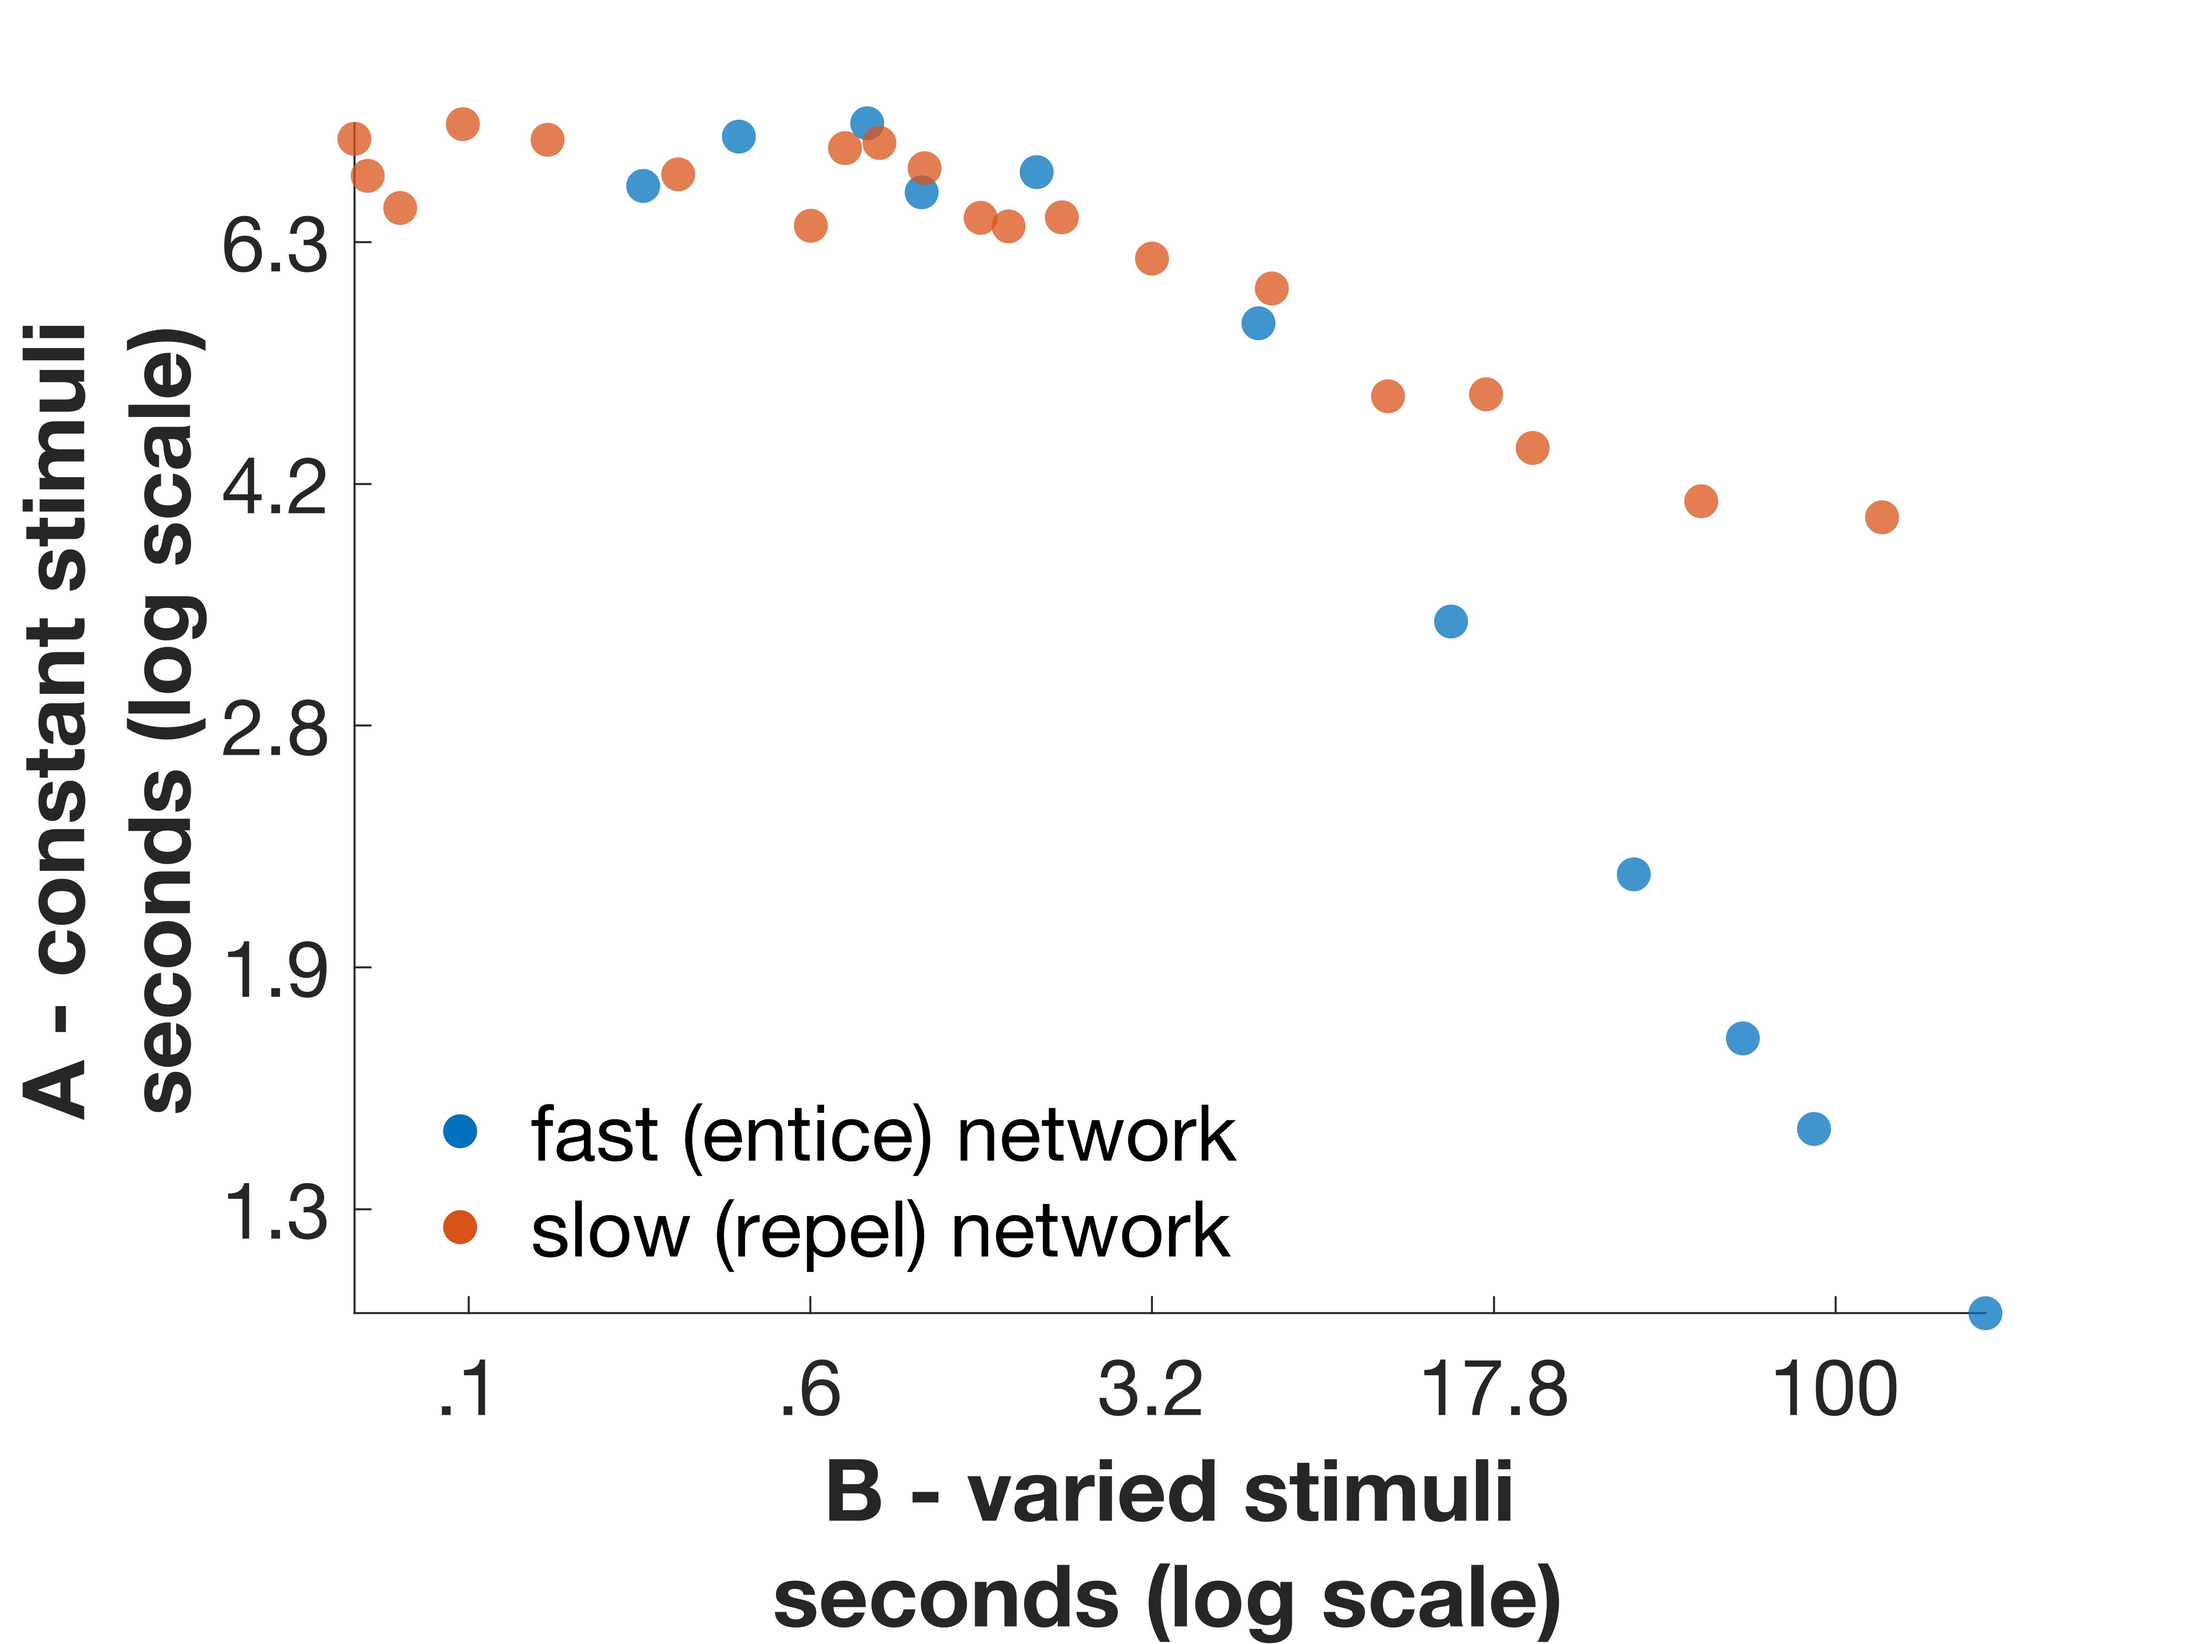
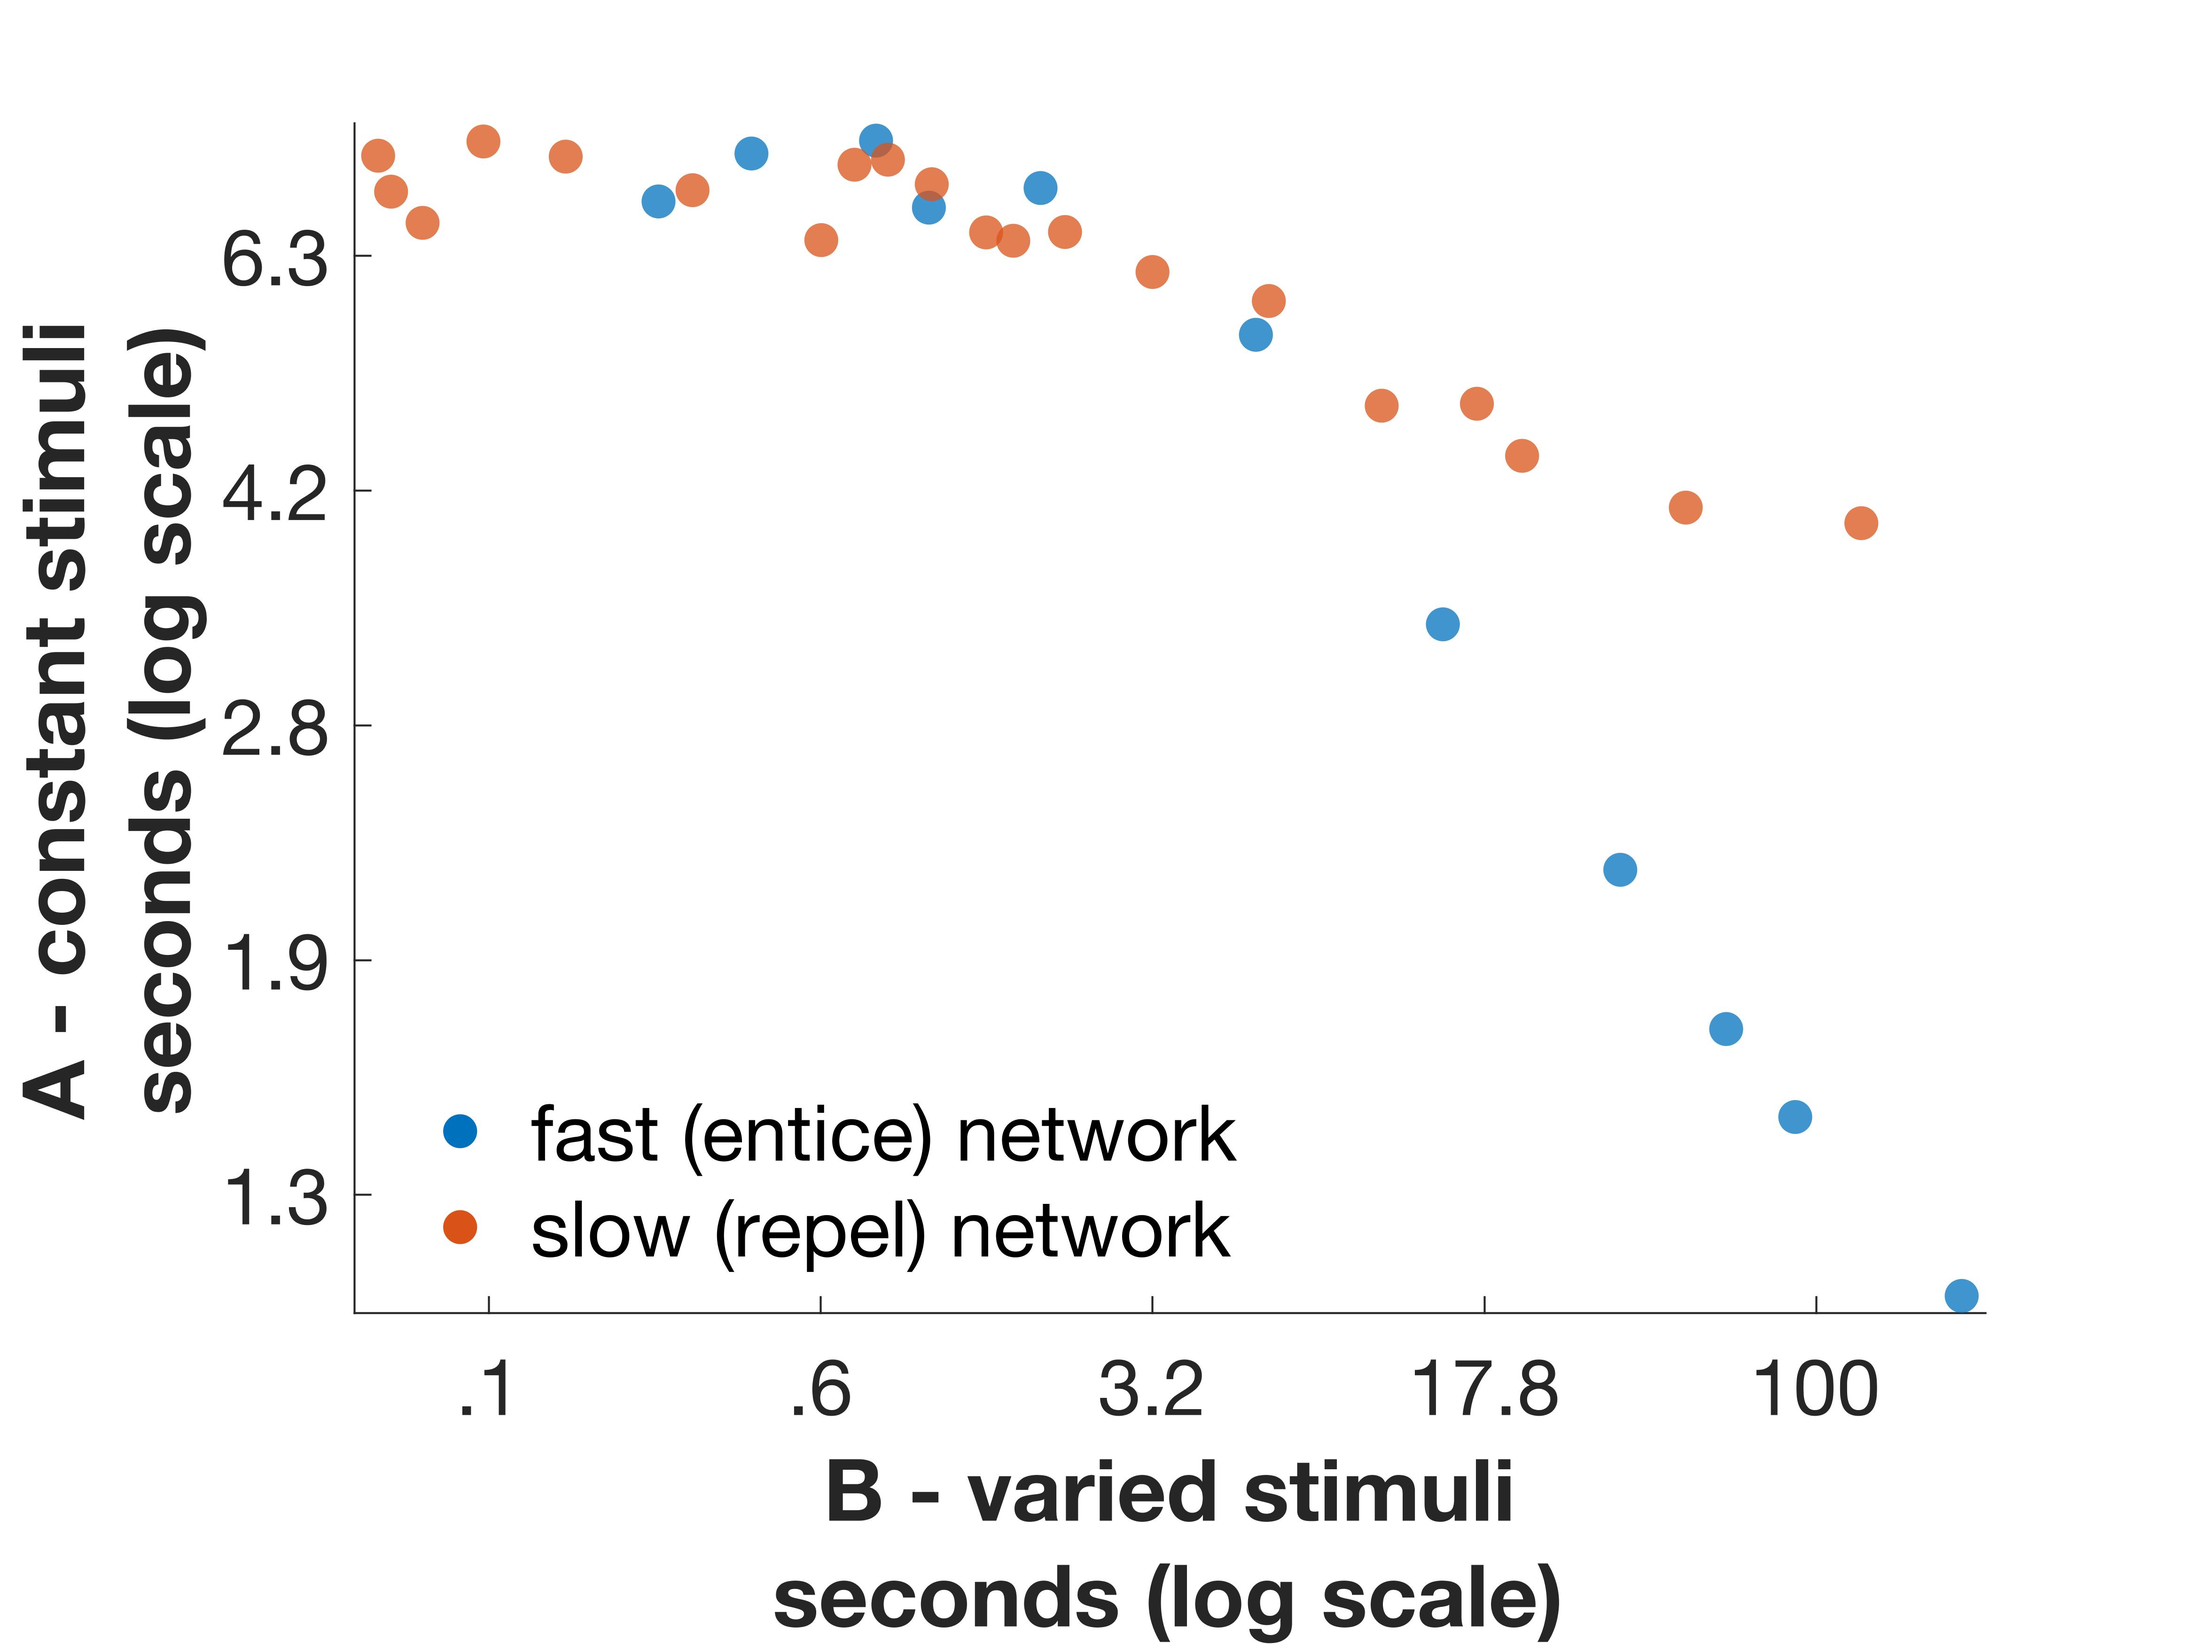
fig 8

diff --git a/inspect_results/multiple_networks/network_spiking_results.m b/inspect_results/multiple_networks/network_spiking_results.m
@@ -5,64 +5,54 @@ hold off;close all
 
 %note-- 8/29/2018: this is the code for analyzing simulation spikerates
 
-%to do:
-%trial-wise stuff
-%think about normalizing by t-stat or something, reduce by variance/error
-
 opt = struct();
 opt.multiple_stimuli = 'no'; %'yes'|'no';
 opt.params2match = {'conn','stim'}; %specify how results are matched to network types (at most {'conn','stim'})
 opt.print_anything = 'yes'; %'yes' | 'no';
-opt.Tcourse = 'all'; %'preswitch' | 'all' | 'presw250to5' | 'presw150to25'
+opt.Tcourse = 'presw200to25'; %'preswitch' | 'all' | 'presw250to5' | 'presw150to25'
 opt.treat_data = 'none'; %'base0'; % zscore | base0 | minmax | 'none'
-opt.zoomed_fig = 'no'; %'yes'|'no'; %ignore I-stay spiking for Y limits
+opt.zoomed_fig = 'yes'; %'yes'|'no'; %ignore I-stay spiking for Y limits
 opt.pulse_stim = 'off'; %'yes' | 'total_time' | 'rem' | 'off' whether to treat durations as samples (rem = time during sample)
 
 %specify simulation
 %---sim setup-----------------
 
-%Snames = {'nets_fastD','nets_fastD_baseline','nets_slowD','nets_slowD_baseline'};
-%figdir = {'figures_nets_fastD','figures_nets_fastD',...
-%    'figures_nets_slowD','figures_nets_slowD'};
-
-basedir = '~/Desktop/ksander/rotation/project/';
+basedir = '~/Desktop/work/ACClab/rotation/project/';
 addpath(fullfile(basedir,'helper_functions'))
-
-%Snames = dir(fullfile(basedir,'Results','nets_D2t_pref_spikedata_preference-*'));
-%Snames = {Snames.name};
-%Snames = Snames(~ismember(Snames,'nets_D2t_pref_spikedata_preference-200')); %no data
 
 Snames = {'nets_D2t-slower_spikedata'};
 figdir = cellfun(@(x) sprintf('figures_%s',x),Snames,'UniformOutput',false);
 
-
-%loop over these
-timewins = {'preswitch', 'all', 'presw200to5', 'presw200to25','presw400to100'};
-treatments = {'none','zscore', 'base0', 'minmax'};
-zooming = {'yes', 'no'};
+netspiking_figure(basedir,Snames{1},figdir{1},opt)
 
 
-for Sidx = 1:numel(Snames)
-    
-    %loop through & do everything for these results
-    for Tidx = 1:numel(timewins)
-        
-        opt.Tcourse = timewins{Tidx};
-        
-        for Didx = 1:numel(treatments)
-            
-            opt.treat_data = treatments{Didx};
-            
-            for Zidx  = 1:numel(zooming)
-                
-                opt.zoomed_fig = zooming{Zidx};
-                
-                %make the digures
-                netspiking_figure(basedir,Snames{Sidx},figdir{Sidx},opt)
-            end
-        end
-    end
-end
+% %loop over these
+% timewins = {'preswitch', 'all', 'presw200to5', 'presw200to25','presw400to100'};
+% treatments = {'none','zscore', 'base0', 'minmax'};
+% zooming = {'yes', 'no'};
+
+
+% for Sidx = 1:numel(Snames)
+%
+%     %loop through & do everything for these results
+%     for Tidx = 1:numel(timewins)
+%
+%         opt.Tcourse = timewins{Tidx};
+%
+%         for Didx = 1:numel(treatments)
+%
+%             opt.treat_data = treatments{Didx};
+%
+%             for Zidx  = 1:numel(zooming)
+%
+%                 opt.zoomed_fig = zooming{Zidx};
+%
+%                 %make the digures
+%                 netspiking_figure(basedir,Snames{Sidx},figdir{Sidx},opt)
+%             end
+%         end
+%     end
+% end
 
 
 
@@ -92,7 +82,7 @@ timestep = gen_options.timestep;
 recorded_switchtime = gen_options.record_preswitch; %actual switchtime in recorded switch
 %recorded_switchtime =  250e-3; %actual switchtime in recorded switch
 recorded_postswitch = gen_options.record_postswitch;
-thresh_delay = gen_options.state_test_time; %recorded switch time delayed by this much 
+thresh_delay = gen_options.state_test_time; %recorded switch time delayed by this much
 
 switch opt.pulse_stim
     case 'off'
@@ -125,7 +115,7 @@ switch opt.Tcourse
         postswitch_plottime = 100e-3 - thresh_delay; %postwitch duration to plot (T+X)
 end
 
-fig_fn = sprintf('%s_%s',sim_name,fig_fn);  
+fig_fn = sprintf('%s_%s',sim_name,fig_fn);
 
 switch opt.treat_data
     case 'zscore'
@@ -139,10 +129,10 @@ switch opt.treat_data
     case 'minmax'
         fig_dir = fullfile(mainfig_dir,'minmax');
         fig_fn = sprintf('%s_%s',fig_fn,'minmax');
-        Yax_labs = 'spiking (0-1)';
+        Yax_labs = 'pool spiking (0-1)';
     case 'none'
         fig_dir = fullfile(mainfig_dir,'no_treatment');
-        Yax_labs = 'spiking (Hz)';
+        Yax_labs = 'pool spiking (Hz)';
 end
 
 switch opt.zoomed_fig
@@ -152,13 +142,6 @@ switch opt.zoomed_fig
 end
 
 if ~isdir(fig_dir),mkdir(fig_dir);end
-
-%result summaries
-fontsz = 30;
-lnsz = 3; %spikerate plots
-orange = [250 70 22]./255;
-matblue = [0,0.4470,0.7410];
-legend_labels = {'E-stay','E-switch','I-stay','I-switch'};
 
 %remake celltype logicals.. (if you use this code again, check this over!!!!!)
 pool_options.num_cells = 250;
@@ -301,12 +284,28 @@ switch opt.treat_data
         result_data = cellfun(@(x,y,z) bsxfun(@rdivide,x,z-y),result_data,Xmin,Xmax,'UniformOutput',false);
 end
 
+
+%result summaries
+fz = 30;
+lnsz = 3; %spikerate plots
+mk_sz = 300; %for adding netword symbs
+mk_ln = 1;
+orange = [250 70 22]./255;
+matblue = [0,0.4470,0.7410];
+legend_labels = {'E-stay','E-switch','I-stay','I-switch'};
+
+net_symbs = {'o','square','^','diamond','v'}; %closed for fast nets, open for slow nets
+%symbols to match parsweep_find_examples.m. Since get_network_params() creates
+%network_pair_info, the ordering below  will match the network_pair_info
+%ordering in parsweep_find_examples.m.
+
 ln.baseline.Color = [103 115 122] ./ 255;
 plt_idx = 0;
+figure;orient tall
 for idx = 1:num_pairs
     
     curr_net_info = network_pair_info{idx};
-    for j = 1:2
+    for j = 2:-1:1 %match the fast, slow ordering in other figures...
         
         plt_idx = plt_idx + 1;
         h(plt_idx) = subplot(5,2,plt_idx);
@@ -337,54 +336,79 @@ for idx = 1:num_pairs
         
         leg_col = ln.(Ntargs).Color;
         l = plot(NaN,'Color',leg_col,'LineWidth',lnsz); %for legend
-        
-        hold off
         Xlim_max = numel(curr_data(1,:));
         set(gca,'XLim',[0 Xlim_max]);
         set(gca,'Xtick',linspace(0,Xlim_max,5));
         Xticks = num2cell(get(gca,'Xtick'));
         if numel(Xticks) > 5,Xticks = Xticks(1:2:numel(Xticks)); end %for crowded axes
+        %add a tick for t = 0
+        Xticks = sort([cell2mat(Xticks),onset_switch]);
+        Xticks = num2cell(Xticks);
         Xlabs = cellfun(@(x) sprintf('%+i',round(((x-onset_switch)*timestep)/1e-3)),Xticks,'UniformOutput', false); %this is for normal stuff
+        Xlabs = strrep(Xlabs,'+0','0');
         set(gca, 'XTickLabel', Xlabs,'Xtick',cell2mat(Xticks));
+        
+        switch Nspeed
+            case 'slow'
+                nm = scatter(NaN,NaN,mk_sz,'black',net_symbs{idx},...
+                    'MarkerFaceAlpha',1,'MarkerEdgeAlpha',1,'LineWidth',mk_ln);
+                legend(nm,'network','Location','north','AutoUpdate','off')
+                tit = 'slow (repel) networks';
+            case 'fast'
+                nm = scatter(NaN,NaN,mk_sz,'black',net_symbs{idx},'filled',...
+                    'MarkerFaceAlpha',1,'MarkerEdgeAlpha',1);
+                legend(nm,'network','Location','north','AutoUpdate','off')
+                tit = 'fast (entice) networks';
+        end
+        
         
         warning('off','MATLAB:legend:IgnoringExtraEntries')
         switch opt.pulse_stim
             case 'off'
-                leg_labels = sprintf('%.0f Hz %s',curr_net_info.stim(j),curr_net_info.targ_cells{j});
-                l = legend(l,leg_labels,'location','best','Box','off');l.Box = 'off'; %Why do I need boxoff 2x??
+                %leg_labels = sprintf('%.0f Hz %s',curr_net_info.stim(j),curr_net_info.targ_cells{j});
+                %l = legend(l,leg_labels,'location','best','Box','off');l.Box = 'off'; %Why do I need boxoff 2x??
             otherwise
                 legend(l,sprintf('%.0fHz %s',curr_net_info{j,3},Pdur),'location','best','box','off')
         end
         warning('on','MATLAB:legend:IgnoringExtraEntries')
         
         
-        if plt_idx == 9 || plt_idx == 10
-            xlabel('Leave decision (ms)')
+        if plt_idx > 8
+            xlabel('leave decision (ms)','FontWeight','bold')
         end
-        if plt_idx == 1 || plt_idx == 2
-            title(sprintf('%s networks',Nspeed),'Fontsize',14)
+        if plt_idx < 3
+            title(tit,'Fontsize',14,'FontWeight','bold')
         end
         if mod(plt_idx,2) == 1
-            ylabel(sprintf('net #%i\n%s',idx,Yax_labs))
+            %ylabel(sprintf('net #%i\n%s',idx,Yax_labs))
+            ylabel(Yax_labs,'FontWeight','bold')
         end
         
+        hold off
     end
 end
-orient tall
+
 
 switch opt.zoomed_fig
     case 'yes'
         %zoom in better
-        Yl = arrayfun(@(x) x.Children,h,'UniformOutput',false);
+        %(drop the scatter child (you used for the legend symbol)
+        Yl = arrayfun(@(x) x.Children(2:end),h,'UniformOutput',false);
         %skip legend & I-stay
         keep_inds = find(~ismember(fliplr(legend_labels),'I-stay')) + 1;
         Yl = cellfun(@(x) x(keep_inds),Yl,'UniformOutput',false);
         Yl = cellfun(@(x) cat(1,x(:).YData),Yl,'UniformOutput',false);
-        Yl = cellfun(@(x) max(x(:)),Yl);
+        %Yl = cellfun(@(x) max(x(:)),Yl);
+        %Yl = cellfun(@(x) max(x(:)) + (.2*range(x(:))),Yl);
+        adj_y = zeros(size(Yl)) + .2;
+        adj_y([1,3,9]) = 0;
+        Yl = cellfun(@(x,y) max(x(:)) + (y*range(x(:))),Yl,num2cell(adj_y));
         arrayfun(@(x,y) ylim(x,[0,y]),h,Yl,'UniformOutput',false);
     case 'no'
         axis tight
 end
+
+
 
 linkaxes(h,'x')
 
@@ -401,9 +425,13 @@ lp.Position = [(1-lp.Position(3))/2,1-lp.Position(4),lp.Position(3:4)];
 
 switch opt.print_anything
     case 'yes'
-        print(fullfile(fig_dir,fig_fn),'-djpeg','-r300')
+        
+        set(gcf,'Renderer','painters')
+        %my code typically saves figures in specific results directories, w/ particular filenames
+        print(fullfile(fig_dir,fig_fn),'-djpeg','-r600')
+        savefig(fullfile(fig_dir,fig_fn))
+        %also save one here since it's a figure for the paper
+        print('fig8-switch_activity','-djpeg','-r600')
 end
 
-
-close all;hold off
 end

diff --git a/inspect_results/multiple_networks/stimulus_preference.m b/inspect_results/multiple_networks/stimulus_preference.m
@@ -408,7 +408,7 @@ for idx = 1:num_pairs
         axis tight
         
         if plt_idx == 9 || plt_idx == 10
-            xlabel('B / Hz','FontWeight','bold')
+            xlabel('B / A','FontWeight','bold')
         end
         if plt_idx == 1 || plt_idx == 2
             title(tit,'FontWeight','bold','Fontsize',14)
@@ -502,7 +502,14 @@ for idx = 1:numel(SPcells)
     end
 end
 
-%title(sprintf('Implicit Competition'),'FontWeight','bold','Fontsize',14)
+%this kept giving me figures with datapoints plotted on this axis itself.. 
+lims = axis;
+adj_lims = .015; %adjust axes by 1% of their range in each direction 
+adj_x = range(lims(1:2)) * adj_lims;
+adj_y = range(lims(3:4)) * adj_lims;
+lims(1:2) = lims(1:2) + [-adj_x,adj_x];
+lims(3:4) = lims(3:4) + [-adj_y,adj_y];
+axis(lims)
 
 set(gca,'FontSize',fz)
 Xtick = get(gca,'XTick');
@@ -723,16 +730,6 @@ Ytick = strrep(Ytick,'0.','.');
 Ytick = strrep(Ytick,'s',''); %went from "sampling" label to just seconds...
 set(gca,'YTickLabel',Ytick);
 
-% %need something else here!
-% [~,hobj] = legend(strcat(SPcells,' network'),'Box','off','Location','southwest','FontSize',20);
-% ll = findobj(hobj,'type','patch');
-% set(ll,'MarkerSize',sqrt(Msz),'FaceAlpha',alph);
-
-% switch print_anything
-%     case 'yes'
-%         set(gcf,'Renderer','painters')
-%         print('fig5-preference_data','-djpeg','-r600') %schwartzupdate_fig
-% end
 
 %this is for the nice legend with all the different colors & symbols------
 lg_pos = legend(' ','Location','best'); 
